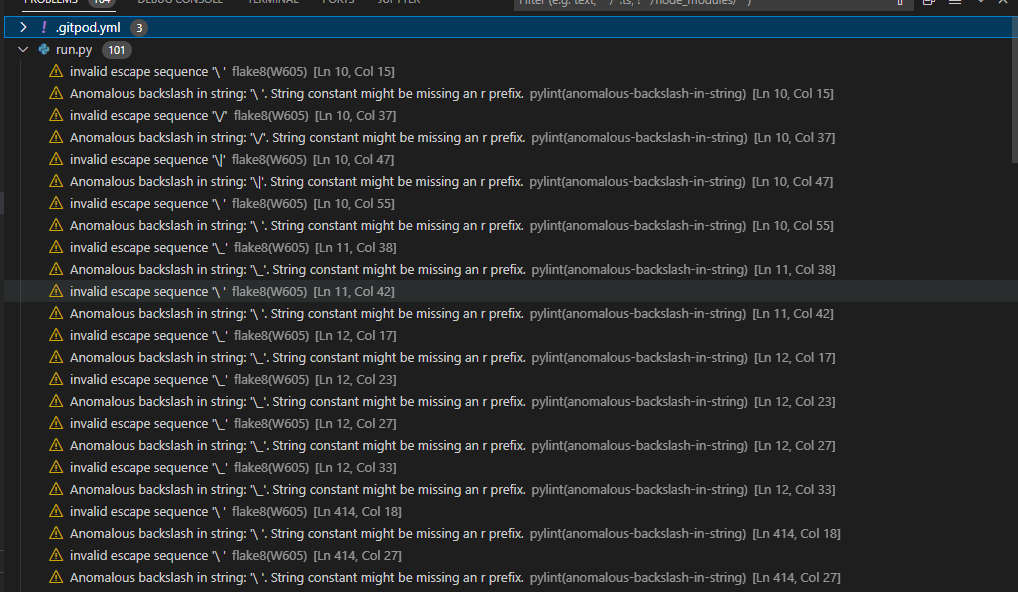
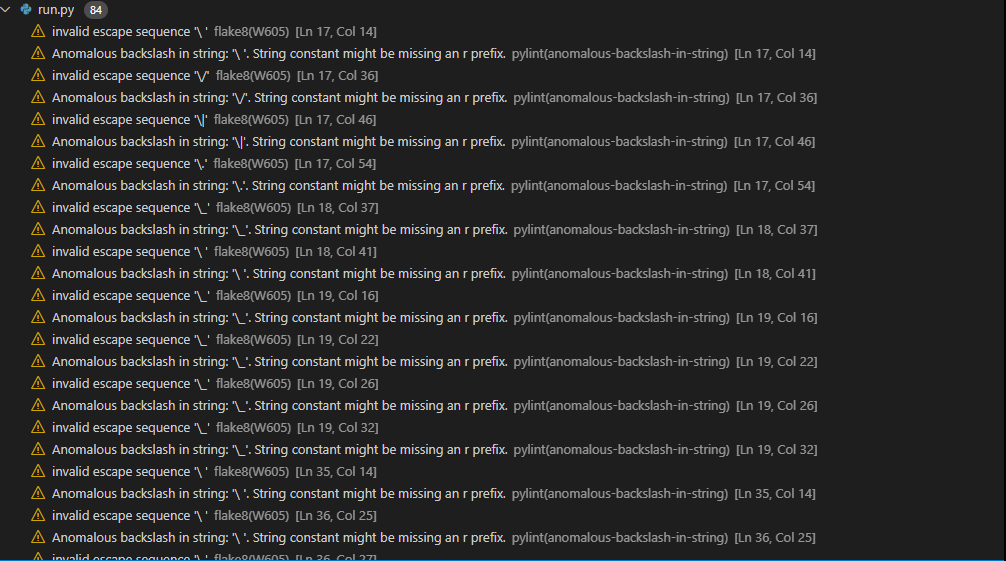
Update error validation section in MD file

Changed region(s): [[0.0, 0.0, 1.0, 1.0]]

diff --git a/README.md b/README.md
@@ -148,10 +148,16 @@ Future Features:
 
 ### Validator testing
 
-GitPod was used as a validator testing. As seen in the image below, GitPod reported 101 problems related to the code. After cleaning up, all the red and many yellow errors were removed. Note that the terminal still reported 101 yellow errors. All of the errors were due to the ASCII art print statements.
-Here we can see the GitPod errors before:
+GitPod was used as a validator testing. As seen in the image below, GitPod reported 101 problems related to the code. After cleaning up, all the red and many yellow errors were removed. Note that the terminal still reported 84 yellow errors. All of the errors were due to the ASCII art print statements.
+Here we can see the GitPod errors before and after:
+
+Before:
 
 ![GitPod errors image](assets/images/python_bug.png)
+
+After:
+
+![GitPod errors image](assets/images/errors_after.png)
 
 
 
